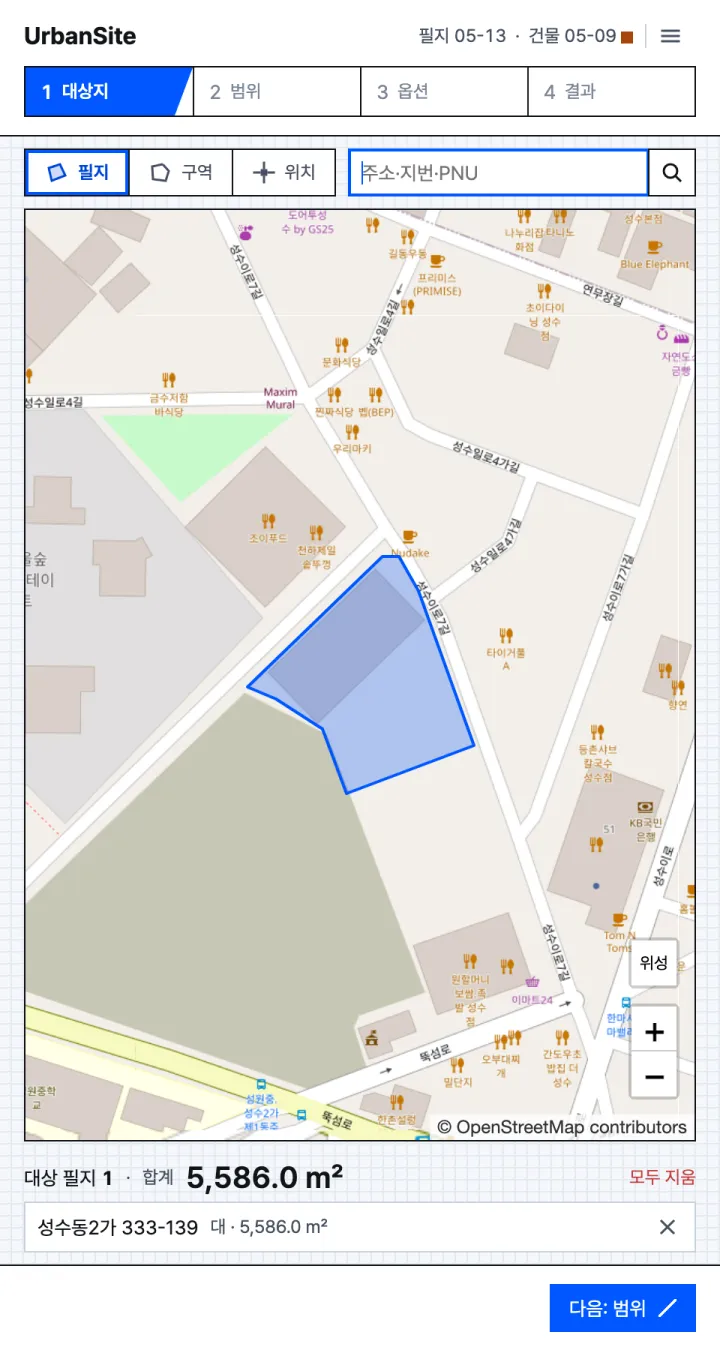
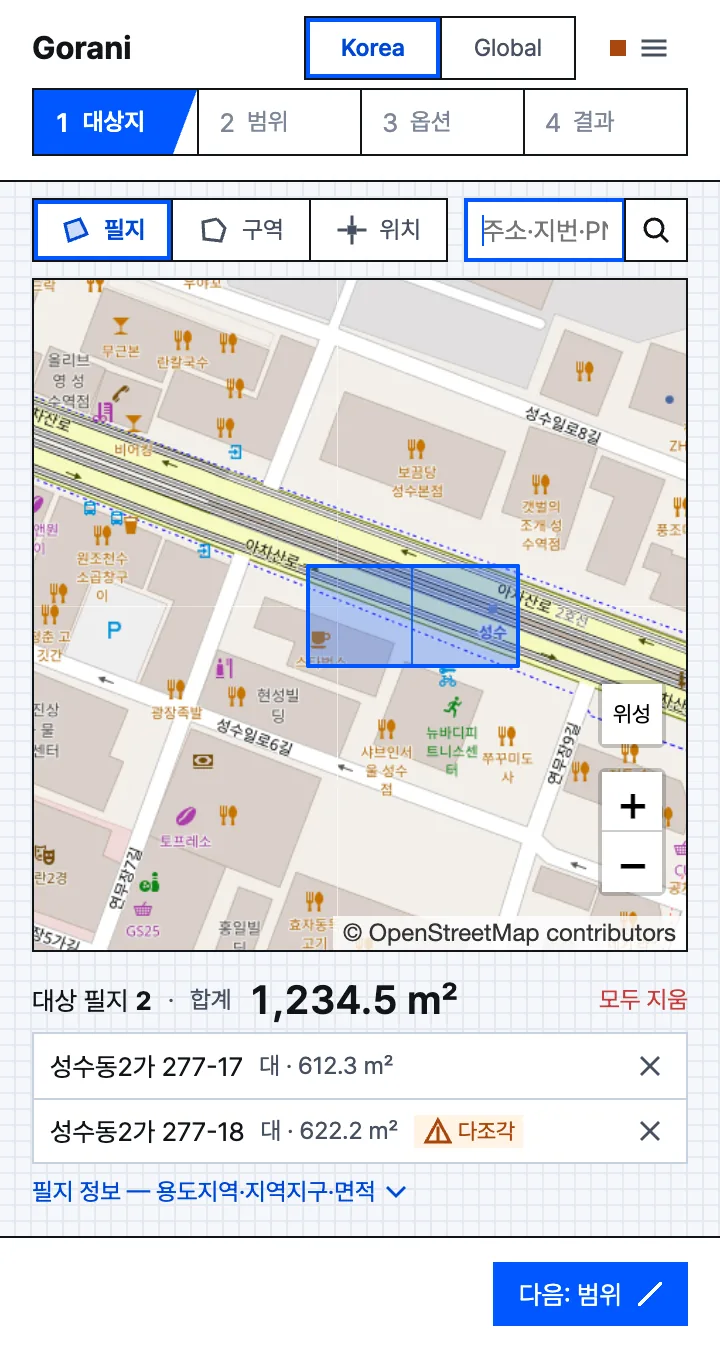
SketchUp·Blender판 '준비 중' 안내(머리말·환경·설치 아래 두 칸·꼬리말·llms.txt·README), 패널 스크린샷을 지금 패널(Gorani, Korea·Global)로 다시 찍음

diff --git a/index.html b/index.html
@@ -3,8 +3,8 @@
 <head>
 <meta charset="utf-8">
 <meta name="viewport" content="width=device-width, initial-scale=1">
-<title>Gorani — Rhino 대지 주변 모델링 무료 플러그인 (건물·도로·지형 자동 생성)</title>
-<meta name="description" content="Rhino 8에서 대상지를 고르면 주변 건물·도로·지형·하천을 3D로 만들어 주는 무료 플러그인입니다. 일러스트레이터 베이스맵과 현황도도 같이 나옵니다. 패키지 매니저에서 설치합니다.">
+<title>Gorani — Rhino·SketchUp·Blender 대지 주변 모델링 무료 플러그인 (건물·도로·지형 자동 생성)</title>
+<meta name="description" content="Rhino 8에서 대상지를 고르면 주변 건물·도로·지형·하천을 3D로 만들어 주는 무료 플러그인입니다. 일러스트레이터 베이스맵과 현황도도 같이 나옵니다. 패키지 매니저에서 설치합니다. SketchUp·Blender판도 준비하고 있습니다.">
 <link rel="canonical" href="https://969flash.github.io/gorani/">
 <link rel="alternate" hreflang="ko" href="https://969flash.github.io/gorani/">
 <link rel="alternate" hreflang="en" href="https://969flash.github.io/gorani/en/">
@@ -65,7 +65,7 @@
   <div class="wrap">
     <a class="brand" href="./" aria-label="Gorani 처음으로">
       <svg viewBox="0 0 32 32" aria-hidden="true"><rect x="1" y="1" width="30" height="30" fill="var(--surface)" stroke="var(--ink)" stroke-width="2"/><path d="M1 11h30M1 21h30M11 1v30M21 1v30" stroke="var(--hair)" stroke-width="1.5"/><path d="M11 11h10v10H11z" fill="var(--blue)"/></svg>
-      <b>Gorani</b><span>Rhino 8 플러그인</span>
+      <b>Gorani</b><span>Rhino · SketchUp · Blender</span>
     </a>
     <nav class="nav" aria-label="페이지 안">
       <a href="#install">설치</a>
@@ -83,7 +83,7 @@
       <div class="sheet-body">
         <div class="pitch">
           <h1 id="hero-title">필지를 고르면<br><em>주변 건물과 지형</em>이<br>Rhino에 들어옵니다.</h1>
-          <p class="lead">Gorani는 Rhino 8 플러그인입니다. 지도에서 대상지를 고르면 반경 안의 건물, 도로, 지형, 하천을 지금 열려 있는 문서에 3D로 만들고, 일러스트레이터 베이스맵과 현황도도 같이 뽑아 줍니다. <strong>무료입니다.</strong></p>
+          <p class="lead">Gorani는 Rhino 8 플러그인이고, SketchUp·Blender판을 준비하고 있습니다. 지도에서 대상지를 고르면 반경 안의 건물, 도로, 지형, 하천을 지금 열려 있는 문서에 3D로 만들고, 일러스트레이터 베이스맵과 현황도도 같이 뽑아 줍니다. <strong>무료입니다.</strong></p>
           <div class="acts">
             <a class="btn go" href="#install">설치 방법</a>
             <a class="btn" href="https://github.com/969flash/gorani"><svg aria-hidden="true"><use href="#i-github"/></svg>GitHub</a>
@@ -105,7 +105,7 @@
       <dl class="titleblock">
         <div><dt>만드는 것</dt><dd>주변 3D 모델, 베이스맵, 현황도</dd></div>
         <div><dt>가격</dt><dd>무료 (후원 받습니다)</dd></div>
-        <div><dt>환경</dt><dd>Rhino 8 (Windows, Mac)</dd></div>
+        <div><dt>환경</dt><dd>Rhino 8, SketchUp·Blender 준비 중</dd></div>
         <div><dt>국내</dt><dd>전국, 필지·용도지역 포함</dd></div>
         <div><dt>해외</dt><dd>OpenStreetMap 건물·도로, 지형</dd></div>
         <div><dt>설치</dt><dd>패키지 매니저에서 Gorani 검색</dd></div>
@@ -127,7 +127,7 @@
       <div class="head">
         <div>
           <h2 id="install-title">설치 방법</h2>
-          <p>Rhino 8만 있으면 됩니다. 그래스호퍼나 파이썬은 몰라도 됩니다.</p>
+          <p>지금은 Rhino 8판을 받을 수 있습니다. 그래스호퍼나 파이썬은 몰라도 됩니다.</p>
         </div>
       </div>
       <div class="module">
@@ -155,6 +155,18 @@
           <p>버그는 <a href="https://github.com/969flash/gorani/issues">GitHub Issues</a>에 남겨 주세요</p>
         </div>
       </div>
+      <div class="module outputs hosts">
+        <div>
+          <h3>SketchUp <span>준비 중</span></h3>
+          <p>SketchUp 2022 이상에서 쓰는 확장입니다. Extension Warehouse 심사를 마치면 여기에 설치 방법을 올리겠습니다.</p>
+          <p class="small">패널과 결과 폴더는 Rhino판과 같고, 3D 모델은 대상지마다 그룹 하나로 들어옵니다.</p>
+        </div>
+        <div>
+          <h3>Blender <span>준비 중</span></h3>
+          <p>Blender 4.2 이상에서 쓰는 확장입니다. Blender 확장 스토어 심사를 마치면 여기에 설치 방법을 올리겠습니다.</p>
+          <p class="small">패널은 브라우저 탭으로 열리고, 3D 모델은 컬렉션으로 들어옵니다.</p>
+        </div>
+      </div>
     </section>
 
     <section class="block" id="panel" aria-labelledby="panel-title">
@@ -165,9 +177,9 @@
         </div>
       </div>
       <ul class="screens">
-        <li><figure><img src="assets/panel-site.webp" width="720" height="1350" loading="lazy" alt="Gorani 패널의 대상지 단계. 지도에서 성수동2가 333-139 필지가 파랗게 선택되어 있고 아래에 면적 5,586 제곱미터가 보인다."><figcaption><b>대상지</b>필지를 클릭하거나 구역을 그리거나 위치를 찍습니다. 주소나 지번으로 검색할 수 있습니다.</figcaption></figure></li>
-        <li><figure><img src="assets/panel-extent.webp" width="720" height="1350" loading="lazy" alt="범위 단계. 대상지 둘레에 반경 500 m 원이 점선으로 그려져 있고 반경·용지·축척을 고르는 칸이 있다."><figcaption><b>범위</b>반경, 용지, 축척을 정합니다. 점선 원 안쪽이 모델링됩니다.</figcaption></figure></li>
-        <li><figure><img src="assets/panel-result.webp" width="720" height="1350" loading="lazy" alt="결과 단계. 생성 완료 8초, Rhino 문서에 건물 3,454동이 들어갔고 아래에 도면 23장 목록이 칸으로 나열되어 있다."><figcaption><b>결과</b>3D 모델은 이미 문서에 들어가 있고, 도면은 결과 폴더에서 일러스트레이터로 열면 됩니다.</figcaption></figure></li>
+        <li><figure><img src="assets/panel-site.webp" width="720" height="1350" loading="lazy" alt="Gorani 패널의 대상지 단계. 지도에서 성수동2가 277-17 외 1필지가 파랗게 선택되어 있고 아래에 합계 면적 1,234.5 제곱미터가 보인다."><figcaption><b>대상지</b>필지를 클릭하거나 구역을 그리거나 위치를 찍습니다. 주소나 지번으로 검색할 수 있습니다.</figcaption></figure></li>
+        <li><figure><img src="assets/panel-extent.webp" width="720" height="1350" loading="lazy" alt="범위 단계. 대상지 둘레에 반경 500 m 원이 점선으로 그려져 있고 형태·반경·용지를 고르는 칸이 있다."><figcaption><b>범위</b>반경, 용지, 축척을 정합니다. 점선 원 안쪽이 모델링됩니다.</figcaption></figure></li>
+        <li><figure><img src="assets/panel-result.webp" width="720" height="1350" loading="lazy" alt="결과 단계. 생성 완료 41초, Rhino 문서에 건물 1,842동이 들어갔고 아래에 도면 23장 목록이 칸으로 나열되어 있다."><figcaption><b>결과</b>3D 모델은 이미 문서에 들어가 있고, 도면은 결과 폴더에서 일러스트레이터로 열면 됩니다.</figcaption></figure></li>
       </ul>
     </section>
 
@@ -282,7 +294,7 @@
         <h2 id="free-title">무료입니다</h2>
       </div>
       <div>
-        <p>대지 주변 모델 하나 만드는 데 돈을 낼 이유는 없다고 생각합니다. 쓰는 데이터는 모두 공공데이터이고, 계산은 각자 컴퓨터의 Rhino 안에서 돌아갑니다. 그래서 무료로 공개했습니다.</p>
+        <p>대지 주변 모델 하나 만드는 데 돈을 낼 이유는 없다고 생각합니다. 쓰는 데이터는 모두 공공데이터이고, 계산은 각자 컴퓨터에서 돌아갑니다. 그래서 무료로 공개했습니다.</p>
         <p>써 보고 도움이 됐다면 후원해 주세요. 데이터 갱신과 기능 추가에 쓰겠습니다. 후원 여부와 관계없이 기능은 똑같습니다.</p>
         <div class="give">
           <a class="btn go" href="https://github.com/sponsors/969flash">GitHub Sponsors로 후원</a>
@@ -299,13 +311,13 @@
   <div class="wrap">
     <div>
       <p><b>Gorani</b></p>
-      <p>Rhino 8 플러그인. 만든 사람 <a href="https://github.com/969flash">969flash</a></p>
+      <p>Rhino 8 플러그인, SketchUp·Blender판 준비 중. 만든 사람 <a href="https://github.com/969flash">969flash</a></p>
     </div>
     <div>
       <p>데이터: 국토교통부 · 국토지리정보원 · 서울특별시(공공누리 제1유형 등, 이용 조건은 도면 출처 줄에 표기) · © OpenStreetMap contributors (ODbL)</p>
       <p>이 페이지는 방문 통계를 Google Analytics로 셉니다. 플러그인 사용 통계: 설치마다 만든 무작위 ID, 버전·OS, 생성한 대상지 위치·범위·걸린 시간·오류 종류를 Google Analytics로 보냅니다. 이름·파일 경로·도면 내용은 보내지 않습니다.</p>
       <p>등고선·표고가 든 결과물(3dm, 베이스맵)은 인터넷에 올리지 마세요. 국토지리정보원 보안관리규정에 따른 제한입니다.</p>
-      <p>Rhino와 Rhinoceros는 Robert McNeel &amp; Associates의 상표입니다. 이 도구는 McNeel과 관계가 없습니다.</p>
+      <p>Rhino와 Rhinoceros는 Robert McNeel &amp; Associates의 상표입니다. SketchUp은 Trimble Inc., Blender는 Blender Foundation의 상표입니다. 이 도구는 McNeel·Trimble·Blender Foundation과 관계가 없습니다.</p>
     </div>
     <div>
       <p><a href="https://github.com/969flash/gorani/issues">문의 · 버그</a></p>

diff --git a/en/index.html b/en/index.html
@@ -3,8 +3,8 @@
 <head>
 <meta charset="utf-8">
 <meta name="viewport" content="width=device-width, initial-scale=1">
-<title>Gorani — free Rhino plugin for site context models (buildings, roads, terrain)</title>
-<meta name="description" content="Pick a site and get the surrounding buildings, roads, terrain and water as 3D in your open Rhino 8 document, plus a layered Illustrator basemap. Free, installed from Rhino's Package Manager. Works wherever OpenStreetMap does; Korea adds cadastre, zoning and analysis maps.">
+<title>Gorani — free Rhino, SketchUp and Blender plugin for site context models (buildings, roads, terrain)</title>
+<meta name="description" content="Pick a site and get the surrounding buildings, roads, terrain and water as 3D in your open Rhino 8 document, plus a layered Illustrator basemap. Free, installed from Rhino's Package Manager. SketchUp and Blender versions are on the way. Works wherever OpenStreetMap does; Korea adds cadastre, zoning and analysis maps.">
 <link rel="canonical" href="https://969flash.github.io/gorani/en/">
 <link rel="alternate" hreflang="ko" href="https://969flash.github.io/gorani/">
 <link rel="alternate" hreflang="en" href="https://969flash.github.io/gorani/en/">
@@ -64,7 +64,7 @@
   <div class="wrap">
     <a class="brand" href="./" aria-label="Gorani home">
       <svg viewBox="0 0 32 32" aria-hidden="true"><rect x="1" y="1" width="30" height="30" fill="var(--surface)" stroke="var(--ink)" stroke-width="2"/><path d="M1 11h30M1 21h30M11 1v30M21 1v30" stroke="var(--hair)" stroke-width="1.5"/><path d="M11 11h10v10H11z" fill="var(--blue)"/></svg>
-      <b>Gorani</b><span>for Rhino 8</span>
+      <b>Gorani</b><span>Rhino · SketchUp · Blender</span>
     </a>
     <nav class="nav" aria-label="On this page">
       <a href="#install">Install</a>
@@ -82,7 +82,7 @@
       <div class="sheet-body">
         <div class="pitch">
           <h1 id="hero-title"><em>The city around<br>your site</em>, modeled<br>in Rhino.</h1>
-          <p class="lead">Gorani is a Rhino 8 plugin. Pick a site on the map and it builds the buildings, roads, terrain and water within the radius in your open document, along with an Illustrator basemap. <strong>It's free.</strong></p>
+          <p class="lead">Gorani is a Rhino 8 plugin, with SketchUp and Blender versions on the way. Pick a site on the map and it builds the buildings, roads, terrain and water within the radius in your open document, along with an Illustrator basemap. <strong>It's free.</strong></p>
           <div class="acts">
             <a class="btn go" href="#install">How to install</a>
             <a class="btn" href="https://github.com/969flash/gorani"><svg aria-hidden="true"><use href="#i-github"/></svg>GitHub</a>
@@ -104,7 +104,7 @@
       <dl class="titleblock">
         <div><dt>Makes</dt><dd>3D context, basemap, analysis maps</dd></div>
         <div><dt>Price</dt><dd>Free (donations welcome)</dd></div>
-        <div><dt>Runs on</dt><dd>Rhino 8 (Windows, Mac)</dd></div>
+        <div><dt>Runs on</dt><dd>Rhino 8; SketchUp, Blender soon</dd></div>
         <div><dt>Worldwide</dt><dd>OpenStreetMap buildings and roads, terrain</dd></div>
         <div><dt>Korea</dt><dd>Nationwide, with parcels and zoning</dd></div>
         <div><dt>Install</dt><dd>Search Gorani in Package Manager</dd></div>
@@ -126,7 +126,7 @@
       <div class="head">
         <div>
           <h2 id="install-title">Installing</h2>
-          <p>You need Rhino 8 and nothing else. No Grasshopper, no Python.</p>
+          <p>The Rhino 8 version is ready now. No Grasshopper, no Python.</p>
         </div>
       </div>
       <div class="module">
@@ -152,6 +152,18 @@
         </ol>
         <div class="module-foot">
           <p>Found a bug? <a href="https://github.com/969flash/gorani/issues">GitHub Issues</a></p>
+        </div>
+      </div>
+      <div class="module outputs hosts">
+        <div>
+          <h3>SketchUp <span>coming soon</span></h3>
+          <p>An extension for SketchUp 2022 and later. Install steps go here once Extension Warehouse review is done.</p>
+          <p class="small">Same panel and result folder as the Rhino version. The 3D model comes in as one group per site.</p>
+        </div>
+        <div>
+          <h3>Blender <span>coming soon</span></h3>
+          <p>An extension for Blender 4.2 and later. Install steps go here once Blender Extensions review is done.</p>
+          <p class="small">The panel opens in a browser tab and the 3D model comes in as collections.</p>
         </div>
       </div>
       <div class="glossary">
@@ -181,9 +193,9 @@
         </div>
       </div>
       <ul class="screens">
-        <li><figure><img src="../assets/panel-site.webp" width="720" height="1350" loading="lazy" alt="Site step of the panel: a parcel in Seongsu-dong, Seoul, selected in blue on the map, with its area of 5,586 square meters below."><figcaption><b>Site</b>Click parcels, draw an area, or drop a point. You can search by address.</figcaption></figure></li>
-        <li><figure><img src="../assets/panel-extent.webp" width="720" height="1350" loading="lazy" alt="Extent step: a dashed 500 m circle around the site, with cells for radius, paper size and scale."><figcaption><b>Extent</b>Set the radius, paper size and scale. Everything inside the dashed circle gets modeled.</figcaption></figure></li>
-        <li><figure><img src="../assets/panel-result.webp" width="720" height="1350" loading="lazy" alt="Results step: done in 8 seconds, 3,454 buildings placed in the Rhino document, and a grid of 23 drawings below."><figcaption><b>Results</b>The 3D model is already in your document. Open the drawings from the result folder in Illustrator.</figcaption></figure></li>
+        <li><figure><img src="../assets/panel-site.webp" width="720" height="1350" loading="lazy" alt="Site step of the panel: two parcels in Seongsu-dong, Seoul, selected in blue on the map, with their total area of 1,234.5 square meters below."><figcaption><b>Site</b>Click parcels, draw an area, or drop a point. You can search by address.</figcaption></figure></li>
+        <li><figure><img src="../assets/panel-extent.webp" width="720" height="1350" loading="lazy" alt="Extent step: a dashed 500 m circle around the site, with cells for shape, radius and paper size."><figcaption><b>Extent</b>Set the radius, paper size and scale. Everything inside the dashed circle gets modeled.</figcaption></figure></li>
+        <li><figure><img src="../assets/panel-result.webp" width="720" height="1350" loading="lazy" alt="Results step: done in 41 seconds, 1,842 buildings placed in the Rhino document, and a grid of 23 drawings below."><figcaption><b>Results</b>The 3D model is already in your document. Open the drawings from the result folder in Illustrator.</figcaption></figure></li>
       </ul>
     </section>
 
@@ -289,7 +301,7 @@
         <h2 id="free-title">It's free</h2>
       </div>
       <div>
-        <p>I don't think anyone should have to pay for a context model of their site. The data is all public, and everything runs inside Rhino on your own machine, so I'm giving it away.</p>
+        <p>I don't think anyone should have to pay for a context model of their site. The data is all public, and everything runs on your own machine, so I'm giving it away.</p>
         <p>If it saved you time, you can chip in. Donations go toward data updates and new features. Everyone gets the same features either way.</p>
         <div class="give">
           <a class="btn go" href="https://github.com/sponsors/969flash">Support on GitHub Sponsors</a>
@@ -304,14 +316,14 @@
 <footer class="foot">
   <div class="wrap">
     <div>
-      <p><b>Gorani</b> for Rhino 8</p>
+      <p><b>Gorani</b> for Rhino 8. SketchUp and Blender soon.</p>
       <p>Made by <a href="https://github.com/969flash">969flash</a>.</p>
     </div>
     <div>
       <p>Data: © OpenStreetMap contributors (ODbL) · Korea: Ministry of Land, Infrastructure and Transport, National Geographic Information Institute, Seoul Metropolitan Government (KOGL Type 1 and others; terms printed on each drawing).</p>
       <p>This page counts visits with Google Analytics. Plugin usage statistics: a random ID per install, versions and OS, where you generated, radius, run time and error types go to Google Analytics. No names, file paths or drawing contents.</p>
       <p>Korean contour and elevation results may not be published online (NGII security rules).</p>
-      <p>Rhino and Rhinoceros are trademarks of Robert McNeel &amp; Associates. This tool is not affiliated with McNeel.</p>
+      <p>Rhino and Rhinoceros are trademarks of Robert McNeel &amp; Associates. SketchUp is a trademark of Trimble Inc. and Blender of the Blender Foundation. This tool is not affiliated with McNeel, Trimble or the Blender Foundation.</p>
     </div>
     <div>
       <p><a href="https://github.com/969flash/gorani/issues">Contact · bugs</a></p>

diff --git a/assets/style.css b/assets/style.css
@@ -212,6 +212,10 @@ h2 { margin: 0; font-size: clamp(30px, 3.6vw, 44px); line-height: 1.2; font-weig
 .outputs > div { padding: 24px; }
 .outputs > div + div { border-left: 1px solid var(--ink); }
 .outputs h3 { margin: 0 0 16px; font-size: 18px; }
+.module + .module { margin-top: 16px; }
+.hosts h3 span { margin-left: 8px; font-weight: 400; font-size: 14px; color: var(--ink-2); }
+.hosts p { margin: 0; }
+.hosts p.small { margin-top: 12px; }
 .tree { margin: 0; font-size: 14px; line-height: 2; overflow-x: auto; }
 .tree .dir { color: var(--blue-ink); font-weight: 600; }
 .tree .note { color: var(--ink-2); font-family: "Pretendard Variable", Pretendard, sans-serif; }

diff --git a/README.md b/README.md
@@ -14,6 +14,8 @@ Gorani는 대상지를 고르면 주변 건물·도로·지형·수계·녹지·
 
 Rhino 8 → `PackageManager` → search `Gorani` → install → restart Rhino → run `Gorani`.
 
+SketchUp (2022+) and Blender (4.2+) versions: coming soon, after Extension Warehouse and Blender Extensions review.
+
 ## Coverage
 
 - **Korea, nationwide** — cadastre, buildings, 1:5,000 terrain, zoning; analysis maps (figure-ground, zoning, land use, street hierarchy, building age and more).
